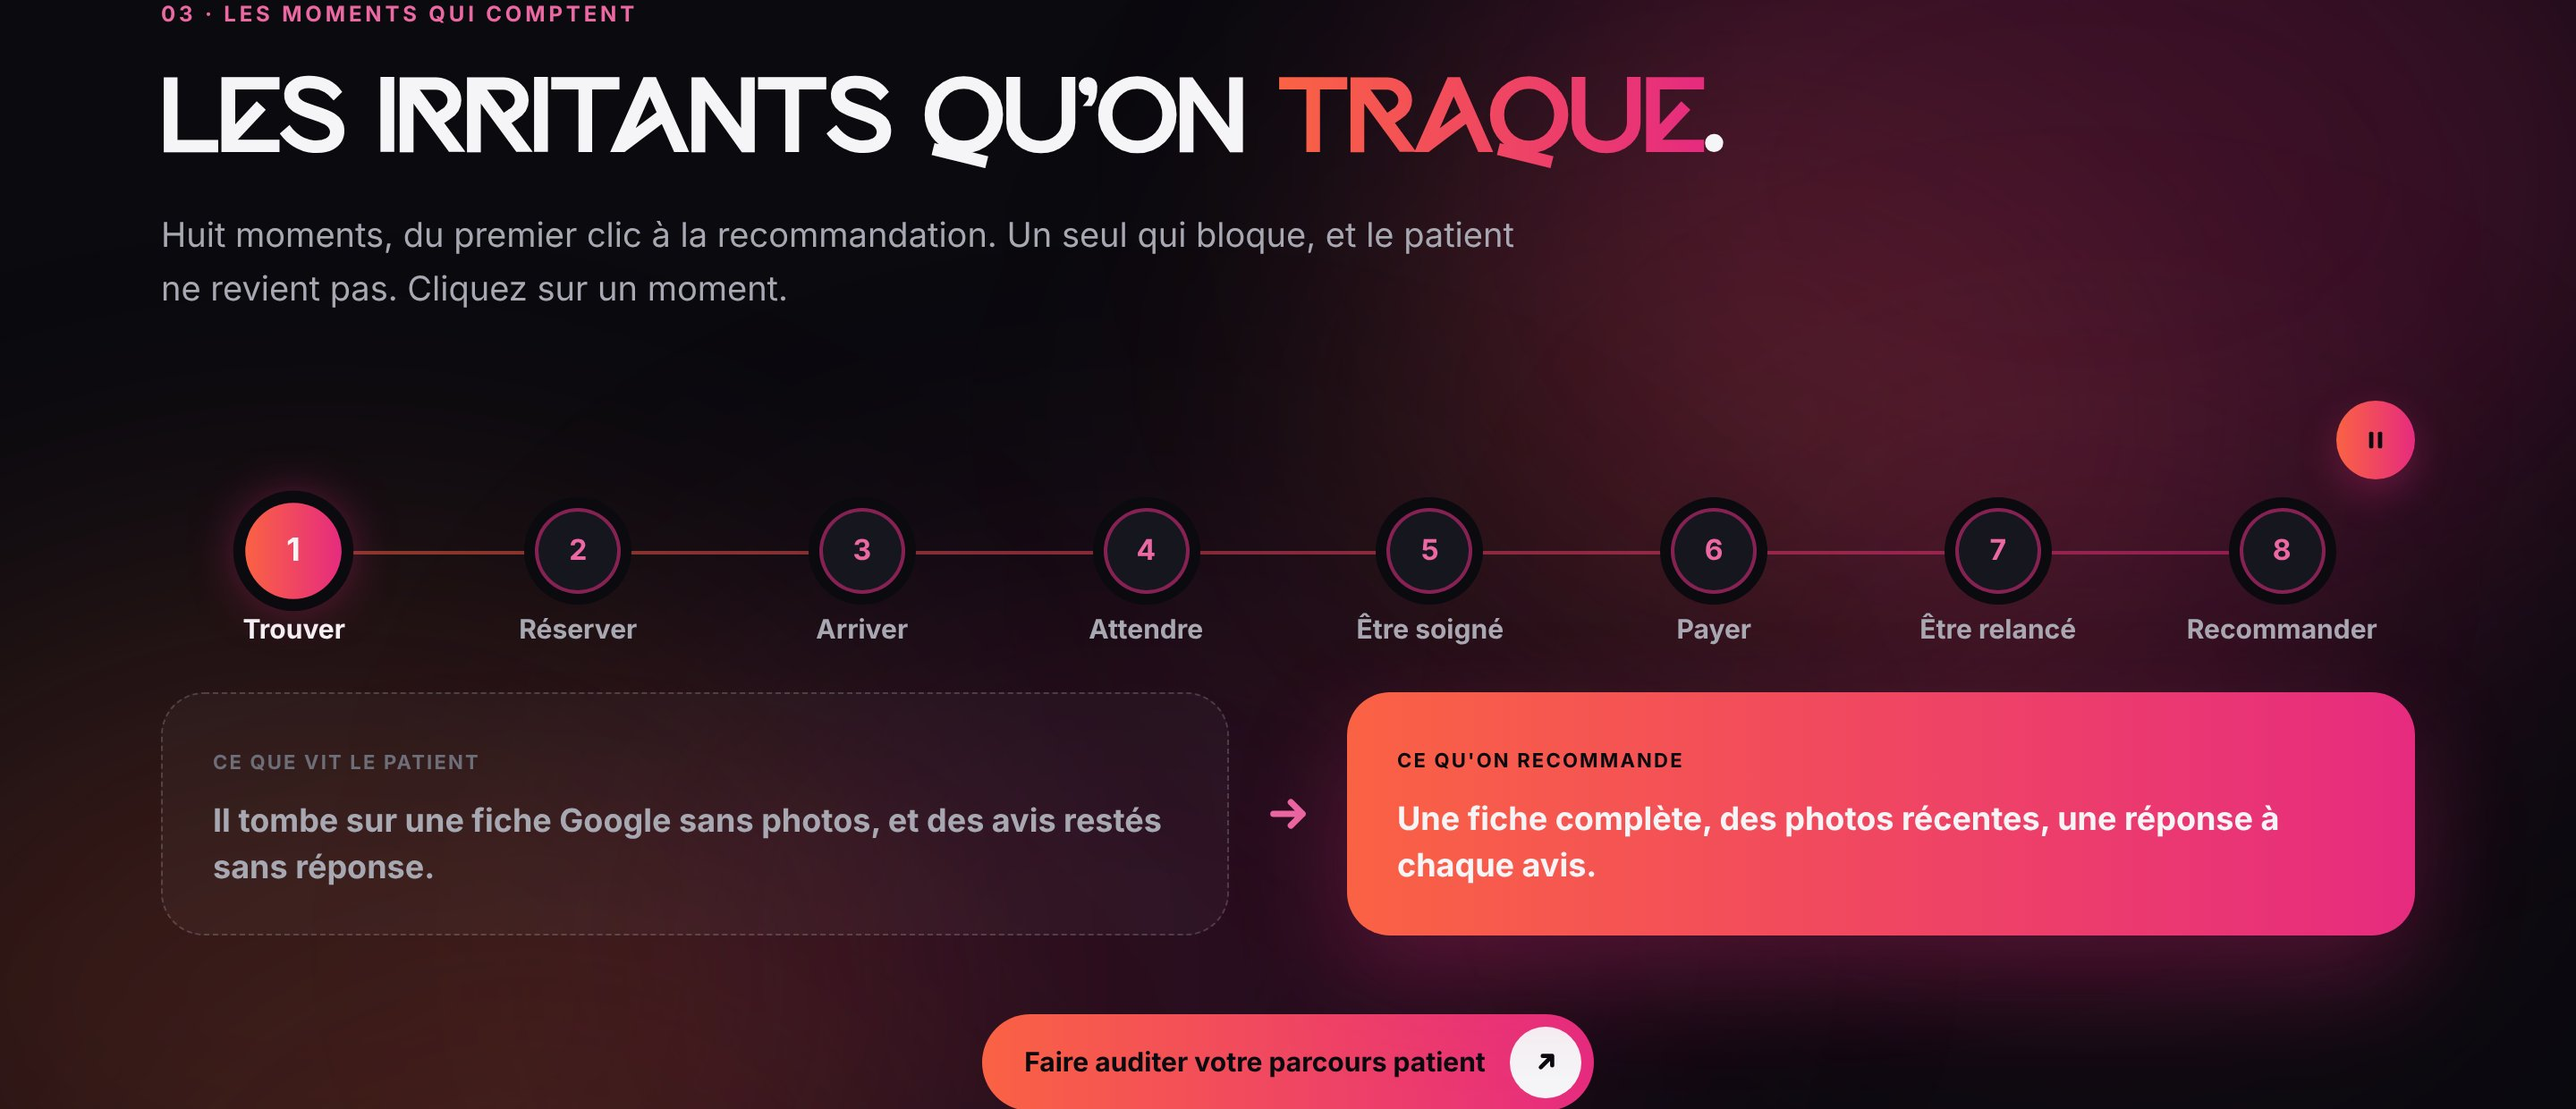
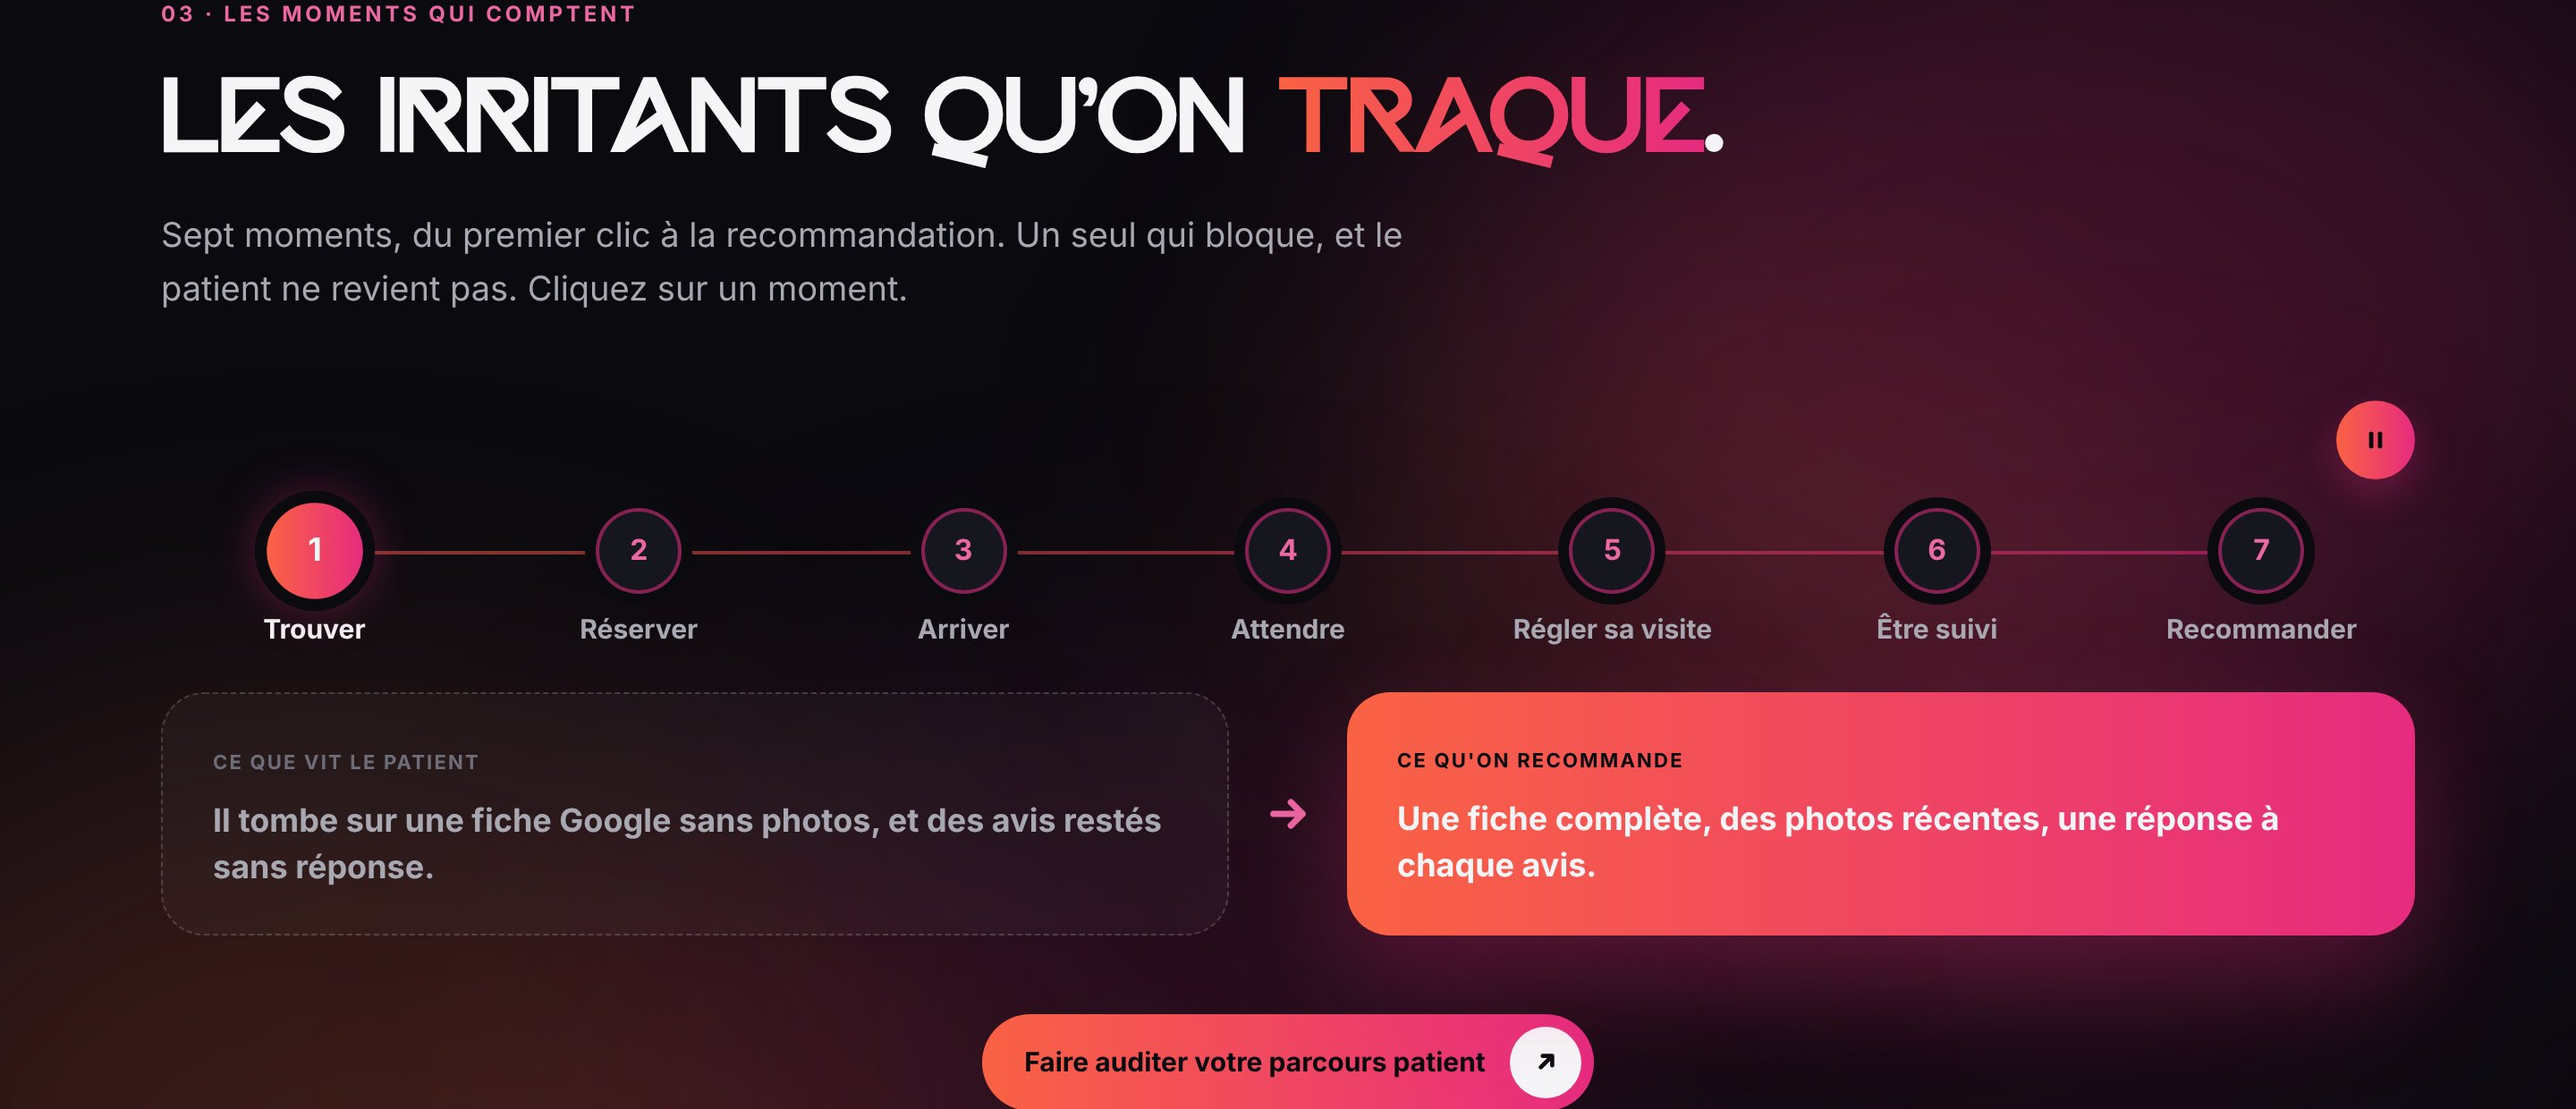
Conseil en expérience patient : 7 moments, plan d'action, rapport sans cadre
- Section 03 : moment « Être soigné » retiré (7 moments), « Régler sa
  visite », « Être suivi », introduction « Sept moments »
- Section 04 : étape « Soin » de la carte du parcours remplacée par
  « Régler » ; « Ce qu'on recommande » ; 3e priorité « Prévenir en cas de
  retard »
- Section 05 : section ouverte (titre de section, sans cadre), « ce qu'on
  recommande en premier », trait rose de l'illustration retiré
- Tests de la section 03 adaptés aux 7 moments (boucle du 7e au 1er)
- Captures des sections 03, 04 et 05

Claude-Session: https://claude.ai/code/session_01QiN6Ez55xrpo83aVEAEp5C

diff --git a/tools/regression/README.md b/tools/regression/README.md
@@ -20,7 +20,7 @@ lance pas.
 |---|---|---|
 | `snapshot.cjs` | Compile le site et relève : fichiers de `dist/` (empreintes SHA-256), HTML normalisé, title, meta, canonique et JSON-LD, styles calculés de chaque élément (et `::before`, `::after`) à 1440 et 390 px, captures pleine page des 30 pages à 1440, 1100, 900, 390 et 360 px | ~5 min |
 | `compare.cjs` | Compare deux relevés et écrit `rapport.md` (et des images `diff/` pour les captures qui diffèrent). Code de sortie 1 s'il y a une différence | ~10 s |
-| `behavior.cjs` | Tests de comportement (110) : page Contact (`?personne=`, `?source=quiz&score=`, `sessionStorage`, Formspree simulé, `generate_lead`, Meta `Contact`), quiz complet du Test de visibilité, barre collante sur les 6 pages (hero, bandeau final, bannière CookieYes, 1440, 390 et 360 px), parcours animé du hero de Santé et RH (étapes allumées une à une, puis reprise ; immobile avec le mouvement réduit), carrousel de l'Équipe (10 s, onglets, survol, bouton, clavier, toucher, mouvement réduit, sans JavaScript, hauteur fixe), alternance « Sans système » / « Avec WOOP » de la page Image de marque (1er changement à 1,5 s après l'apparition, puis 5 s, aucune pause au survol, bouton Pause / Lecture (à droite de la pastille sur cellulaire, en bas à droite des cartes sur ordinateur), pastille sans arrêt de la rotation, focus clavier, hors de l'écran, mouvement réduit, 390 px), illustrations animées de la page Création de site web (en marche à l'écran seulement, en pause hors de l'écran, état final avec le mouvement réduit, jauge en boucle de 4 s sans arrêt au survol ni au clic), animations de la page Conseil en expérience patient (hero en boucle sans pause au survol, rotation des 8 moments, bouton Pause / Lecture, clic sans arrêt de la rotation, arrêt hors de l'écran, mouvement réduit), FAQ des 6 pages (toutes fermées à l'arrivée, clic, ouverture d'une autre question qui referme la première, fermeture, clavier, à 1440 et 390 px), pagination du blog, ancres et barres finales des liens ; une erreur dans un groupe compte comme un échec sans arrêter les suivants | ~2 min 30 |
+| `behavior.cjs` | Tests de comportement (110) : page Contact (`?personne=`, `?source=quiz&score=`, `sessionStorage`, Formspree simulé, `generate_lead`, Meta `Contact`), quiz complet du Test de visibilité, barre collante sur les 6 pages (hero, bandeau final, bannière CookieYes, 1440, 390 et 360 px), parcours animé du hero de Santé et RH (étapes allumées une à une, puis reprise ; immobile avec le mouvement réduit), carrousel de l'Équipe (10 s, onglets, survol, bouton, clavier, toucher, mouvement réduit, sans JavaScript, hauteur fixe), alternance « Sans système » / « Avec WOOP » de la page Image de marque (1er changement à 1,5 s après l'apparition, puis 5 s, aucune pause au survol, bouton Pause / Lecture (à droite de la pastille sur cellulaire, en bas à droite des cartes sur ordinateur), pastille sans arrêt de la rotation, focus clavier, hors de l'écran, mouvement réduit, 390 px), illustrations animées de la page Création de site web (en marche à l'écran seulement, en pause hors de l'écran, état final avec le mouvement réduit, jauge en boucle de 4 s sans arrêt au survol ni au clic), animations de la page Conseil en expérience patient (hero en boucle sans pause au survol, rotation des 7 moments, bouton Pause / Lecture, clic sans arrêt de la rotation, arrêt hors de l'écran, mouvement réduit), FAQ des 6 pages (toutes fermées à l'arrivée, clic, ouverture d'une autre question qui referme la première, fermeture, clavier, à 1440 et 390 px), pagination du blog, ancres et barres finales des liens ; une erreur dans un groupe compte comme un échec sans arrêter les suivants | ~2 min 30 |
 
 Deux contrôles complémentaires, pour les PR qui déplacent du CSS dans des composants :
 
